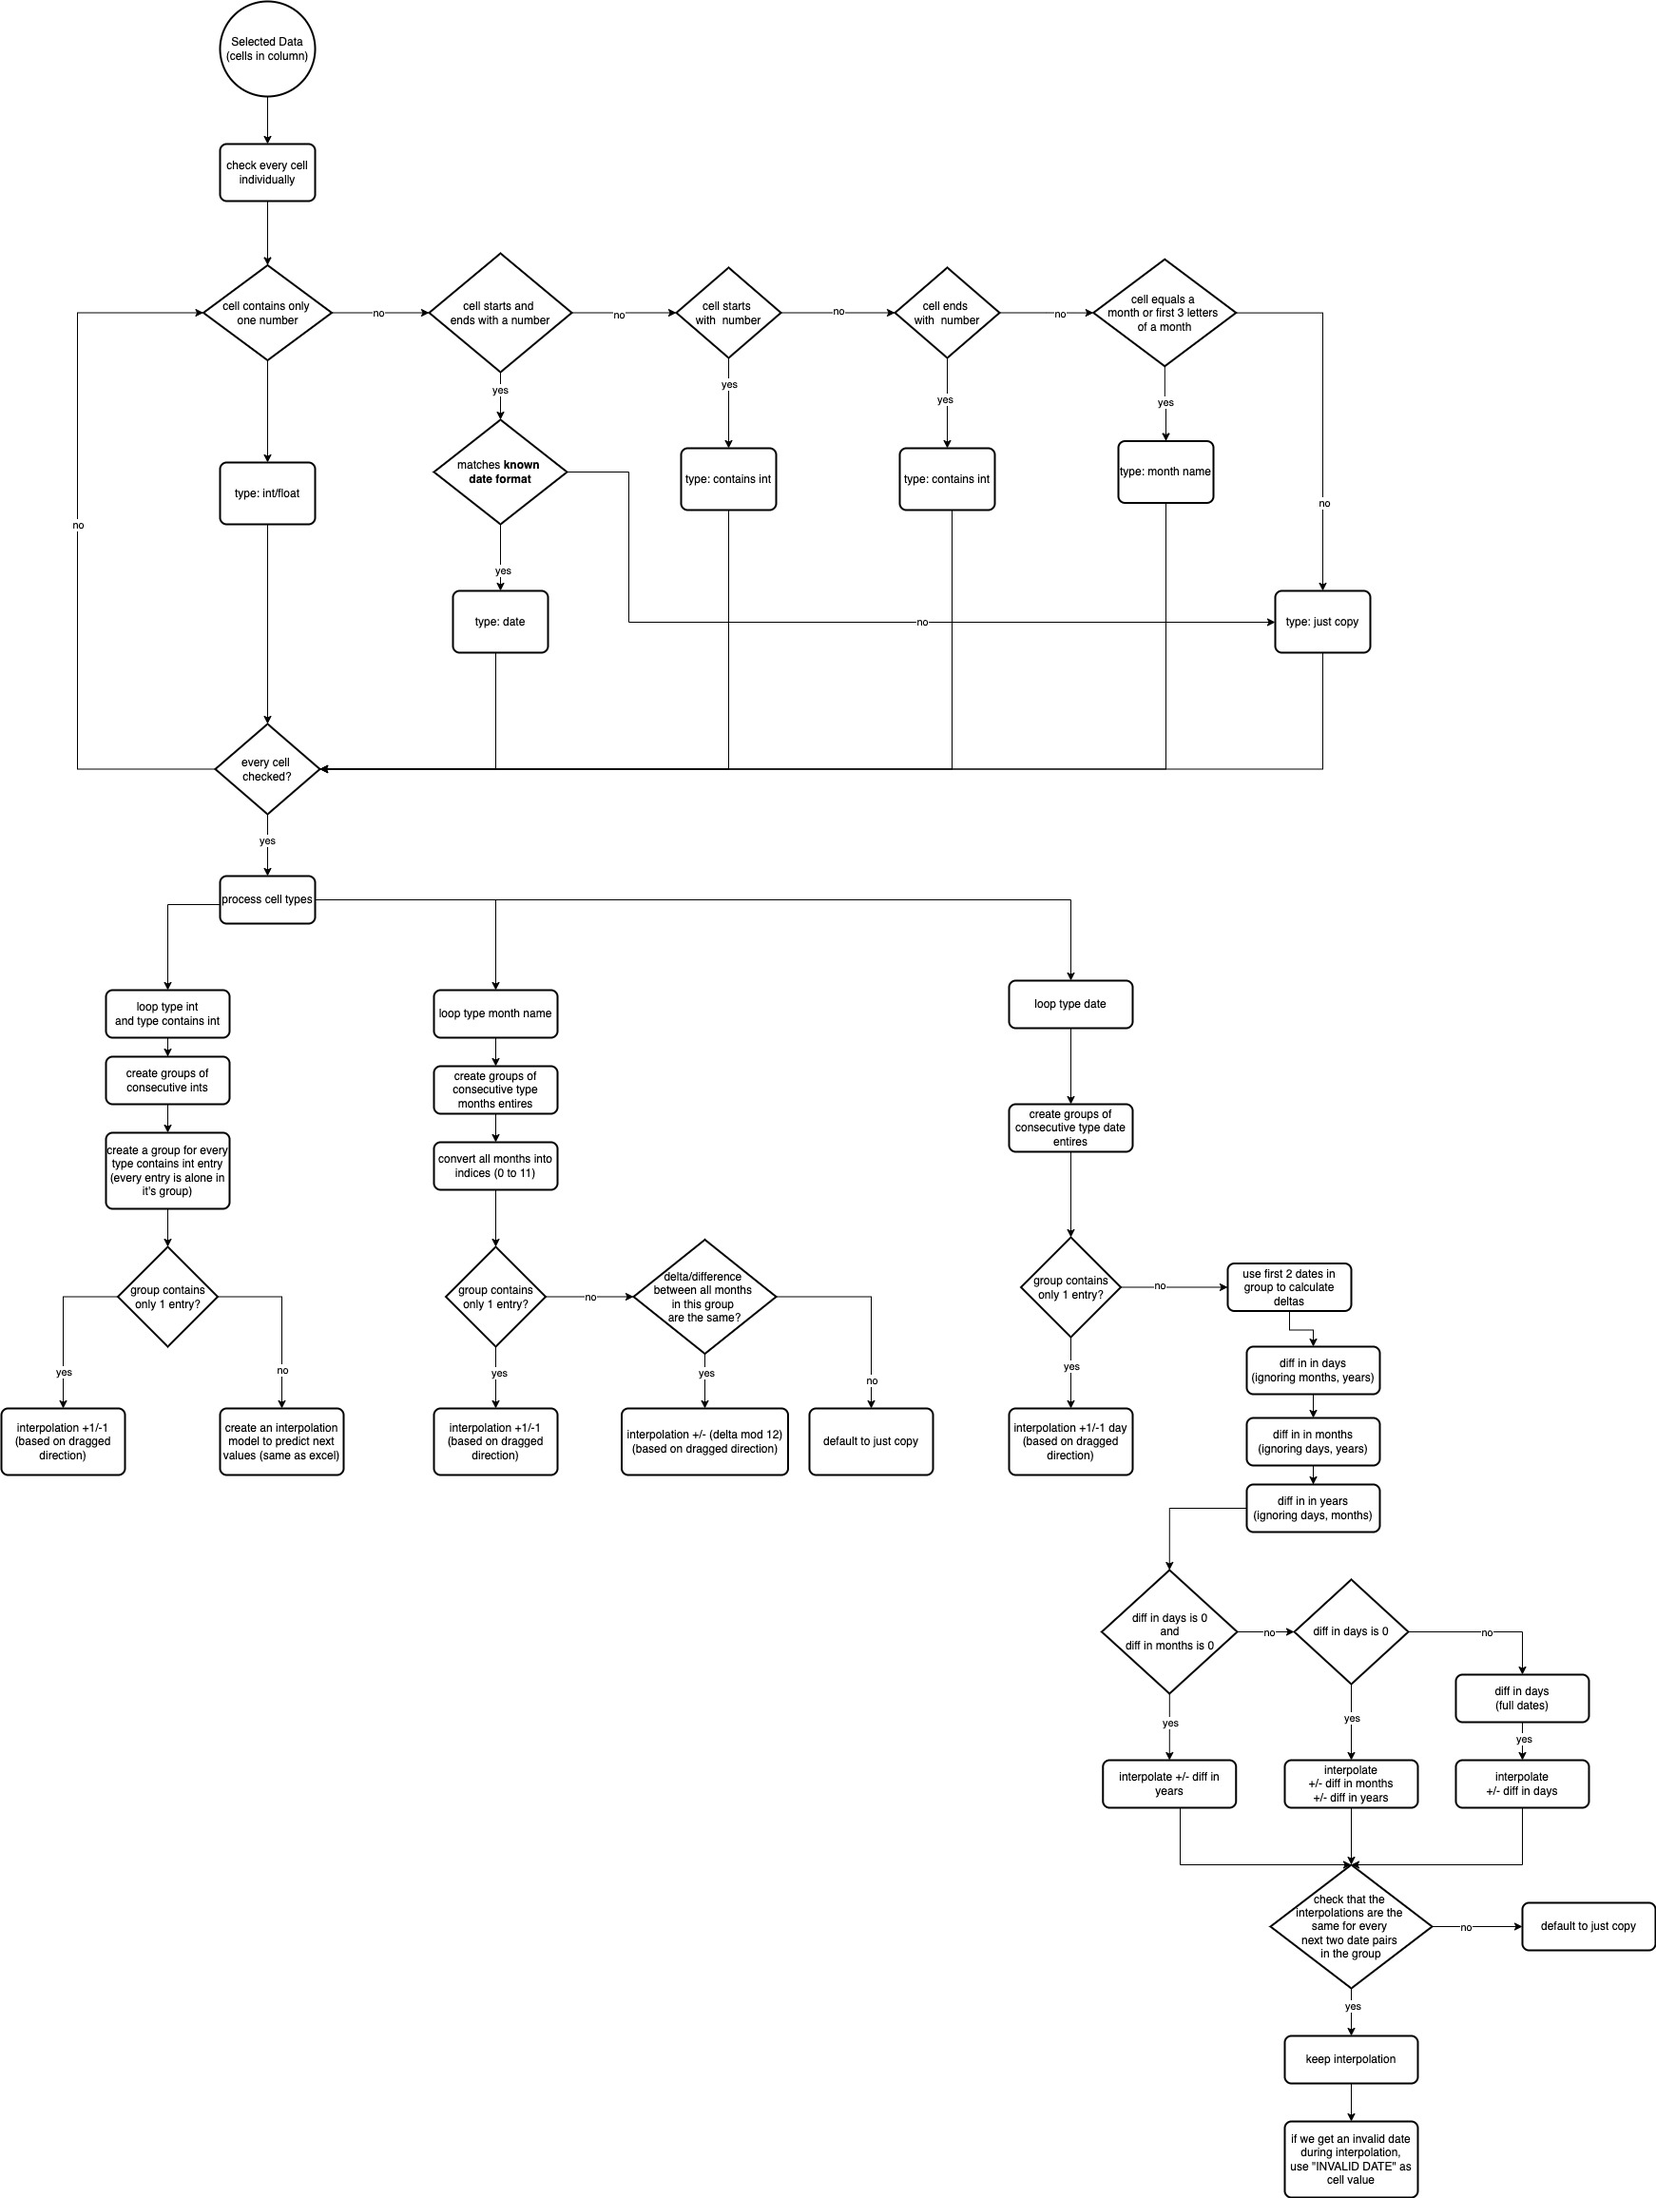
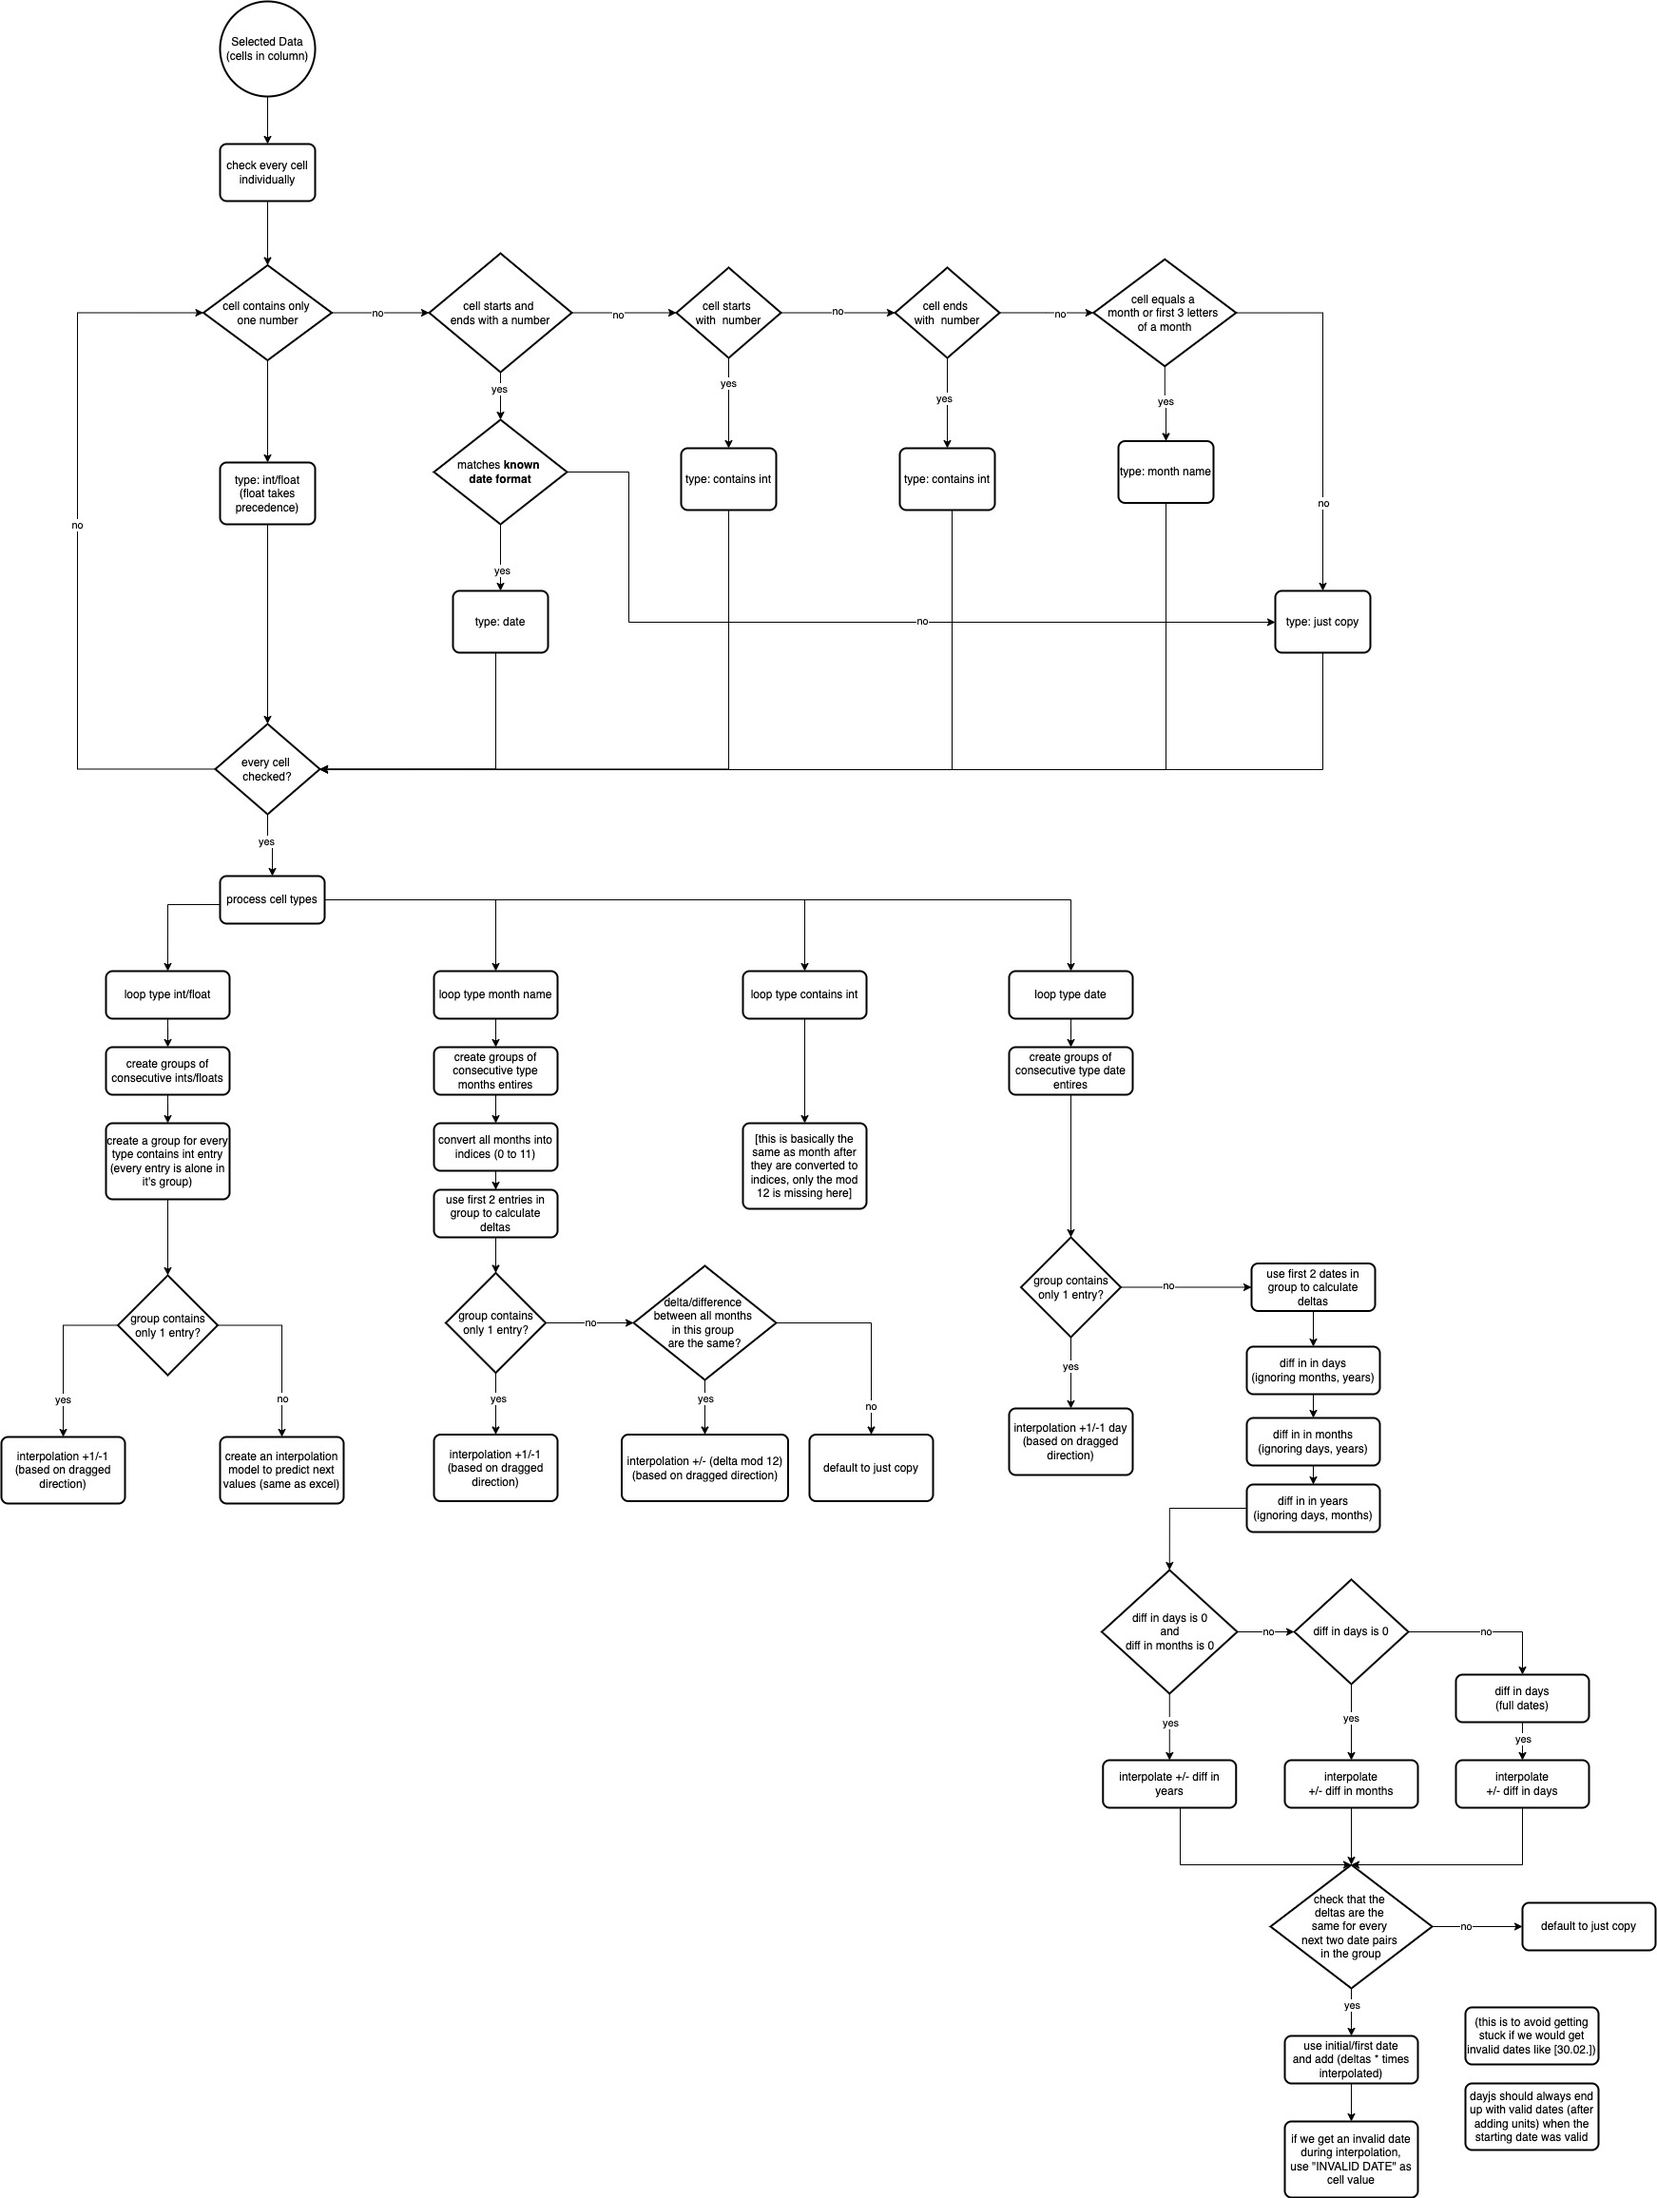
- updated readme and diagram

diff --git a/csvEditorHtml/browser/indexBrowser.html b/csvEditorHtml/browser/indexBrowser.html
@@ -225,7 +225,7 @@
 
 			<div id="version-n-changelog" style="margin-right: 1rem;">
 				<a href="https://github.com/janisdd/vscode-edit-csv/blob/master/csvEditorHtml/browser/CHANGELOG.md" target="_blank">
-					v1.5.1
+					v1.6.0
 				</a>
 			</div>
 

diff --git a/csvEditorHtml/browser/indexBrowserDebug.html b/csvEditorHtml/browser/indexBrowserDebug.html
@@ -223,7 +223,7 @@
 
 			<div id="version-n-changelog" style="margin-right: 1rem;">
 				<a href="https://github.com/janisdd/vscode-edit-csv/blob/master/csvEditorHtml/browser/CHANGELOG.md" target="_blank">
-					v1.5.1
+					v1.6.0
 				</a>
 			</div>
 

diff --git a/README.md b/README.md
@@ -279,9 +279,16 @@ Auto filling numbers uses [linear regression](https://en.wikipedia.org/wiki/Line
 
 This is different from normals numbers because here the cell text must start or end with a number (or both).
 
-In this case the interpolation is only `+1/-1`.
+In this case the interpolation is only a constant delta.
+The delta is determined by the first two cell values in the selection
 
-if there is a number at the start of the cell, this takes precedence.
+e.g. `2. test, 4. test` will calculate a delta of `2`, so the next value will be `6. test`
+
+If there are different deltas in the selected cells, auto fill will default to copy only
+
+e.g. `2. test, 4. test, 5. test` will calculate a delta of `2`, so the next values will be `2. test, 4. test, 5. test, 2. test, ...`
+
+If there is a number at the start and end of the cell, this number in the beginning takes precedence.
 
 
 #### Dates
@@ -316,8 +323,8 @@ e.g. the diff/delta in days for `25.05.2024` - `26.07.2024` is still only 1 `day
 when the diff in `days` is 0 and diff in `months` is 0, use the diff in years for interpolation
 this ensures days and months will stay the same: `25.05.2024, 25.05.2026` -> `25.05.2028`
 
-when only the diff in `days` is 0, use the diff in month and days for interpolation
-e.g. `25.05.2024, 25.07.2026` -> `25.09.2028`
+when only the diff in `days` is 0, use the diff in month for interpolation
+e.g. `25.05.2024, 25.07.2026` -> `25.09.2028` (delta in months: 26)
 
 in any other case use the diff in `days` but this time respecting all parts of the date as delta for interpolation
 e.g. `01.01.2024, 02.02.2024` gives a delta of 32 `days`
@@ -326,6 +333,7 @@ and the next date will be `05.03.2024`
 if there are more than 2 dates in the group sequence then they must have the same diff/delta.
 if thath is not the case, default to just copying the dates as sequence over and over
 
+When the interpolation would give an invalid date like `30.02.20` then `dayjs` will coerce the date into a valid date (here `28.02.20`).
 
 #### Month Names
 
